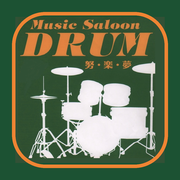
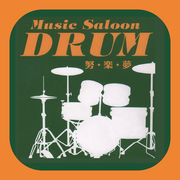
Add files via upload

diff --git a/index.html b/index.html
@@ -9,12 +9,12 @@
   <meta name="apple-mobile-web-app-capable" content="yes">
   <meta name="mobile-web-app-capable" content="yes">
   <meta name="theme-color" content="#143f2c">
-  <link rel="manifest" href="manifest.webmanifest?v=20260728">
-  <link rel="icon" type="image/png" sizes="32x32" href="favicon-32.png?v=20260728">
-  <link rel="icon" type="image/png" sizes="192x192" href="app-icon-192.png?v=20260728">
-  <link rel="shortcut icon" href="favicon-32.png?v=20260728">
-  <link rel="apple-touch-icon" sizes="180x180" href="apple-touch-icon.png?v=20260728">
-  <link rel="apple-touch-icon-precomposed" sizes="180x180" href="apple-touch-icon.png?v=20260728">
+  <link rel="manifest" href="manifest.webmanifest?v=20260728b">
+  <link rel="icon" type="image/png" sizes="32x32" href="favicon-32.png?v=20260728b">
+  <link rel="icon" type="image/png" sizes="192x192" href="app-icon-192.png?v=20260728b">
+  <link rel="shortcut icon" href="favicon-32.png?v=20260728b">
+  <link rel="apple-touch-icon" sizes="180x180" href="apple-touch-icon.png?v=20260728b">
+  <link rel="apple-touch-icon-precomposed" sizes="180x180" href="apple-touch-icon.png?v=20260728b">
   <style>
     :root {
       --forest: #143f2c;
